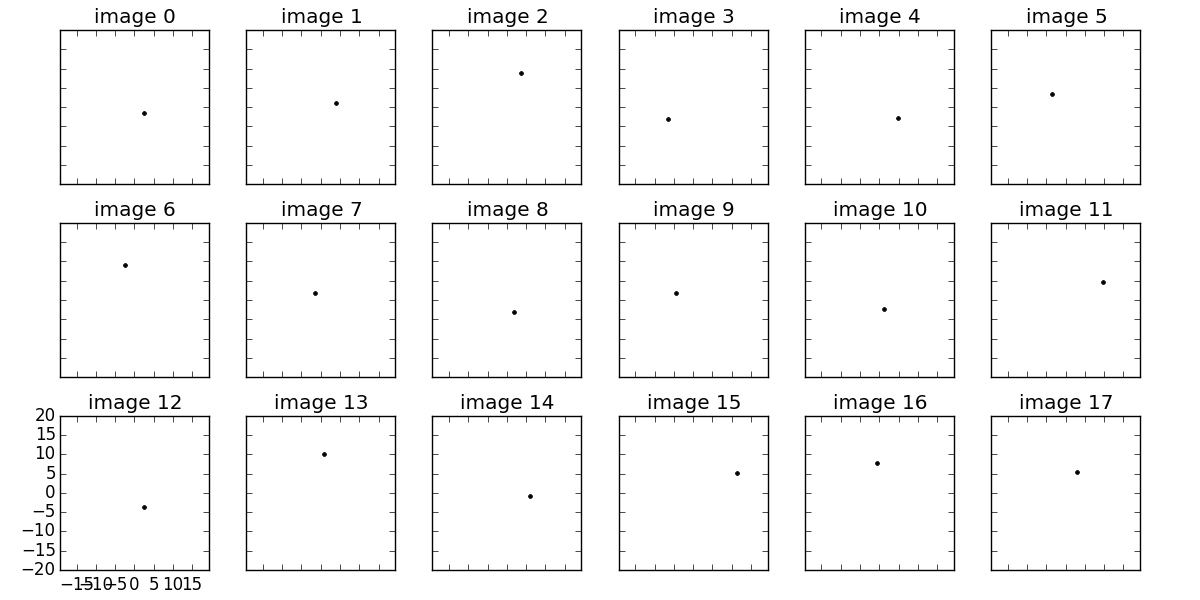
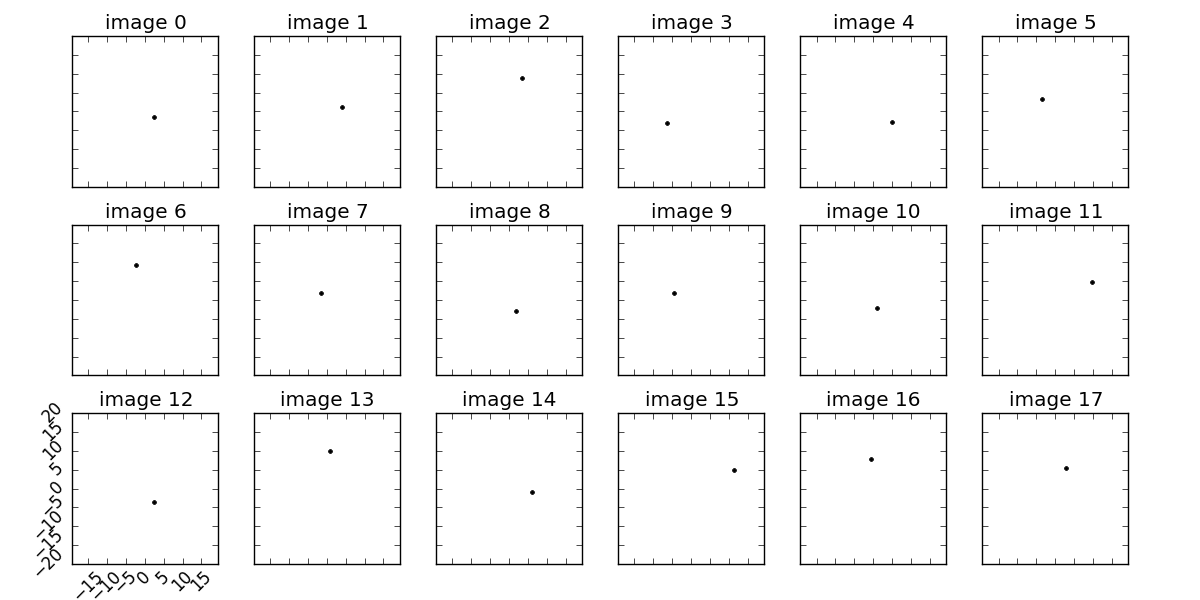
tweak ticks

Changed region(s): [[0.0308, 0.0, 0.9558, 1.0]]

diff --git a/code/plot_gaussian_results.py b/code/plot_gaussian_results.py
@@ -72,15 +72,17 @@ def plot_data(model, sampling=False):
         prefix = "data_" + prefix
     plt.figure(figsize=(12,6))
     plt.clf()
-    plt.subplots_adjust(bottom=0.05, top=0.95, left=0.05, right=0.95,
+    plt.subplots_adjust(bottom=0.06, top=0.94, left=0.06, right=0.94,
                         wspace=0.25, hspace=0.25)
     nex = np.min((18, model.N))
     for n in range(nex):
-        plt.subplot(3,6,n+1)
+        plt.subplot(3, 6, n+1)
+        plt.xticks(rotation=45)
+        plt.yticks(rotation=45)
         plot_datum(model, n)
         if sampling:
             plot_posterior_sampling(model, n)
-        if (n+1) != 13:
+        if (n+1) != 13: # magic
             plt.gca().get_xaxis().set_ticklabels([])
             plt.gca().get_yaxis().set_ticklabels([])
         plt.axis("equal")
